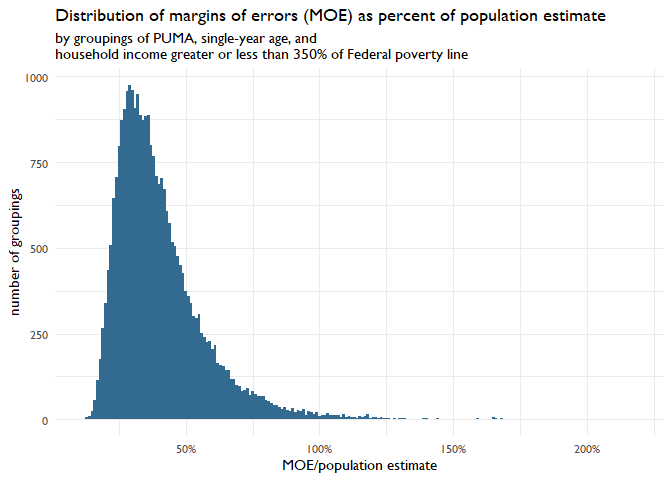
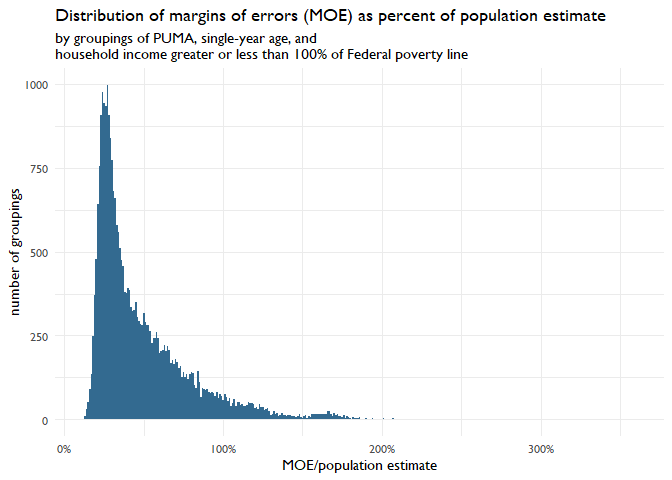
use 100% of poverty line threshold instead of 350%

diff --git a/ecd/b_5_explorer/explore_moe.md b/ecd/b_5_explorer/explore_moe.md
@@ -22,13 +22,13 @@ d_b5_svy <- as_survey(d_b5, weight = perwt, repweights = matches("repwtp[0-9]+")
     type = "JK1", scale = 4/ 80 , rscales = rep(1, 80 ), mse = TRUE)
 
 # calculate margin of error when aggregating by puma, age year, and
-# household income <= 350% of poverty level
+# household income <= 100% of poverty level
 s_b5 <- d_b5_svy %>%
-    mutate(household_income_less_than_350pct_poverty = poverty <= 350) %>%
+    mutate(household_income_less_than_100pct_poverty = poverty <= 100) %>%
     group_by(
         state, statefip, puma,
         age,
-        household_income_less_than_350pct_poverty,
+        household_income_less_than_100pct_poverty,
     ) %>%
     summarize(
         # estimate population with standard error
@@ -49,8 +49,8 @@ s_b5 <- s_b5 %>%
 For instance, we can examine the margin of errors (MOE) as a percent of
 the population estimate for groupings of [public use microdata areas
 (PUMAs)](https://www.census.gov/programs-surveys/geography/guidance/geo-areas/pumas.html),
-single-year ages, and whether a child lives in a household with \<350%
-the Federal poverty line. There are 28,204 such groupings. The following
+single-year ages, and whether a child lives in a household with \<100%
+the Federal poverty line. There are 28,034 such groupings. The following
 histogram illustrates the distribution.
 
 ``` r
@@ -63,7 +63,7 @@ g_moe_pct <- ggplot(s_b5) +
     ) +
     labs(
         title = "Distribution of margins of errors (MOE) as percent of population estimate",
-        subtitle = "by groupings of PUMA, single-year age, and\nhousehold income greater or less than 350% of Federal poverty line",
+        subtitle = "by groupings of PUMA, single-year age, and\nhousehold income greater or less than 100% of Federal poverty line",
         x = "MOE/population estimate",
         y = "number of groupings"
     ) +
@@ -75,8 +75,8 @@ g_moe_pct
 ![](explore_moe_files/figure-gfm/plot_moe_distribution-1.png)<!-- -->
 
 Of the combinations of PUMA, age by year, and indicator of whether a
-child lives in a household with \<350% the Federal poverty line, 1% have
-an MOE \> 100% of the population estimate and 21% have an MOE \> 50% of
+child lives in a household with \<100% the Federal poverty line, 7% have
+an MOE \> 100% of the population estimate and 35% have an MOE \> 50% of
 the population estimate.
 
 The draft *B-5 Explorer* allows for significantly more filters to be
